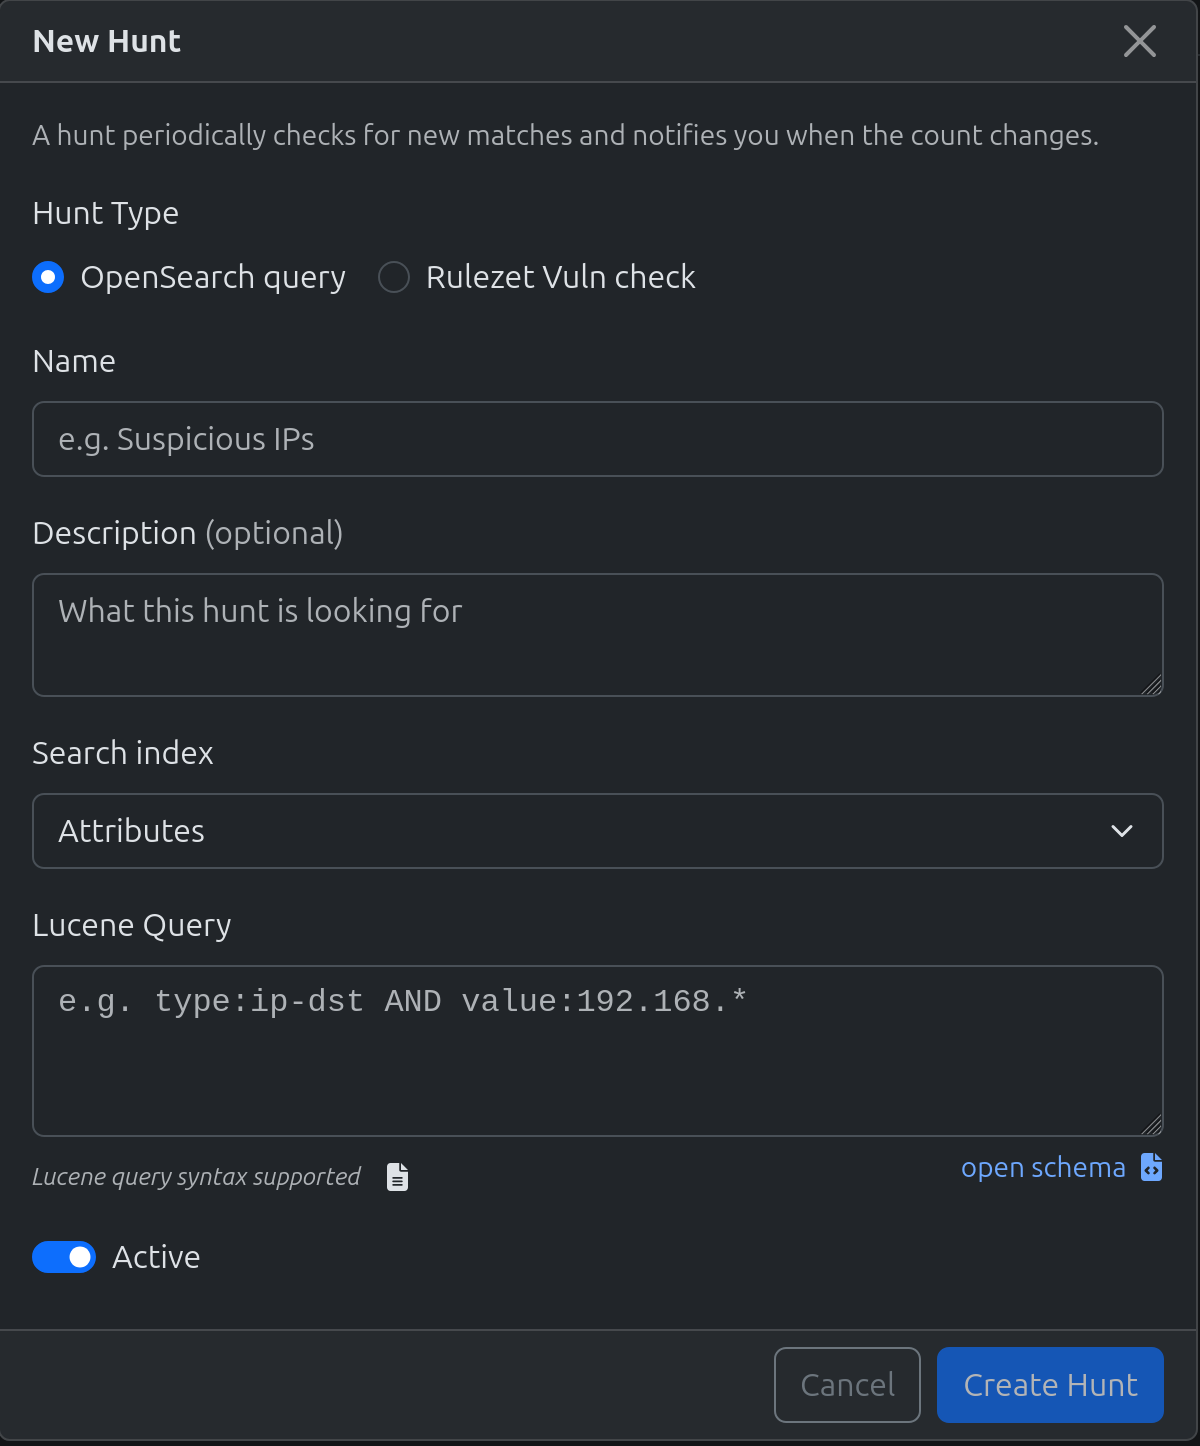
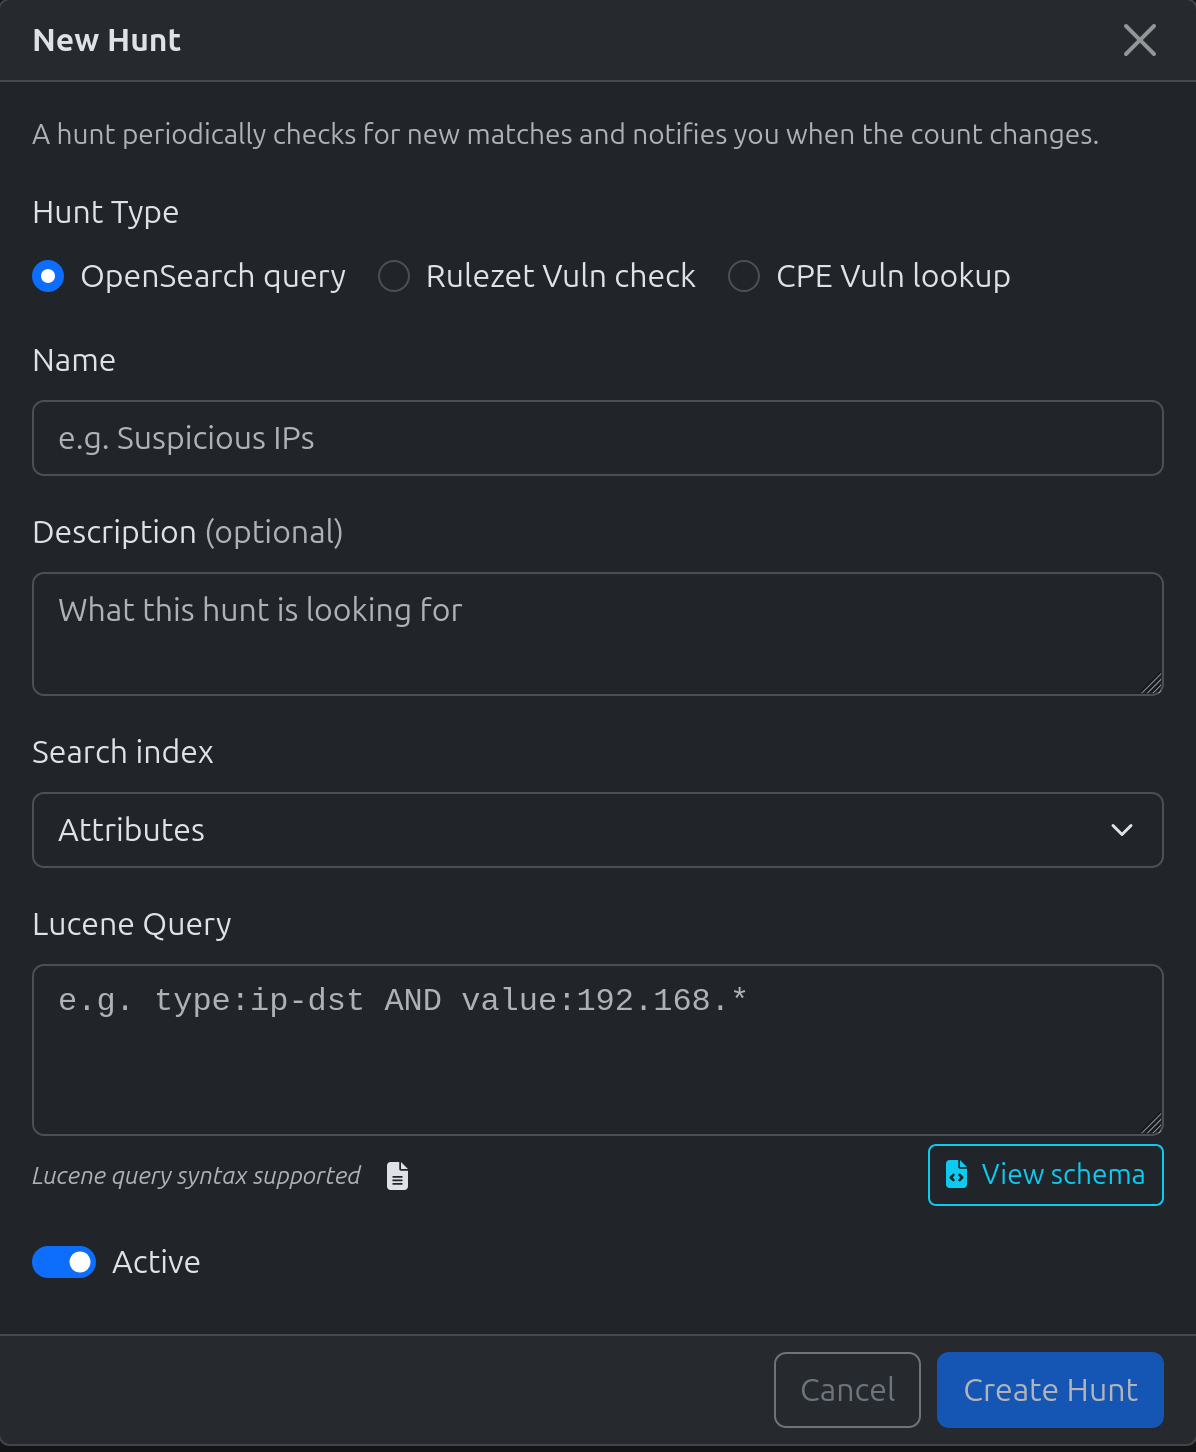
add: extend hunts docs, cpe hunt docs

diff --git a/docs/features/hunts.md b/docs/features/hunts.md
@@ -1,12 +1,24 @@
 # Hunts
 
-Hunts are saved searches that run against the OpenSearch index. Each hunt stores a Lucene query, an index target, and a run history so you can track how match counts evolve over time.
+Hunts are saved searches that can run against the OpenSearch index, an external vulnerability database, or a detection rule registry. Each hunt stores a query, an index target, and a run history so you can track how match counts evolve over time.
 
 ## Hunt types
 
 ### OpenSearch (`opensearch`)
 
 Executes a Lucene query against one of the three OpenSearch indices (`attributes`, `events`, or `correlations`). Returns up to 100 matching documents per run.
+
+### CPE (`cpe`)
+
+Looks up CVEs affecting a product by its [CPE 2.3](https://nvd.nist.gov/products/cpe) string using [vulnerability.circl.lu](https://vulnerability.circl.lu). The `query` field must be a valid CPE string (e.g. `cpe:2.3:a:apache:log4j:2.14.1:*:*:*:*:*:*:*`). All matching CVEs are fetched across pages — there is no cap on result count. The `index_target` field is ignored for CPE hunts.
+
+Each hit in the result contains:
+
+| Field | Description |
+|---|---|
+| `cve_id` | CVE identifier (e.g. `CVE-2021-44228`) |
+| `severity` | CVSS base severity (`CRITICAL`, `HIGH`, `MEDIUM`, `LOW`, or absent if not scored) |
+| `description` | English description of the vulnerability |
 
 ### Rulezet (`rulezet`)
 
@@ -16,9 +28,9 @@ Looks up detection rules from [rulezet.org](https://rulezet.org) by Vuln ID. The
 
 | Term | Description |
 |---|---|
-| **Query** | Lucene query (opensearch) or Vuln ID (rulezet) |
+| **Query** | Lucene query (opensearch), CPE string (cpe), or Vuln ID (rulezet) |
 | **Index target** | Which index to search: `attributes`, `events`, or `correlations` (opensearch only) |
-| **Hunt type** | `opensearch` for Lucene queries, `rulezet` for Vuln-ID-based rule lookup |
+| **Hunt type** | `opensearch`, `cpe`, or `rulezet` |
 | **Status** | `active` or `paused` — paused hunts are skipped during scheduled runs |
 | **Run history** | Each execution stores a timestamp and match count |
 
@@ -32,6 +44,10 @@ Looks up detection rules from [rulezet.org](https://rulezet.org) by Vuln ID. The
     - _Rulezet_ hunt:
     
     <img src="../../screenshots/hunts/misp-workbench-2_hunts_new-rulezet-hunt.png" style="height: 500px;">
+
+    - _CPE_ hunt:
+    
+    <img src="../../screenshots/hunts/misp-workbench-2_hunts_new-cpe-hunt.png" style="height: 500px;">
 
 2. Click the eye icon on the newly created hunt to view its details. To run the hunt immediately, click the ***Run Now*** button.
     <img src="../../screenshots/hunts/misp-workbench-3_hunts_view-opensearch-hunt.png" style="max-width: 100%; height: auto;">
@@ -58,7 +74,7 @@ Looks up detection rules from [rulezet.org](https://rulezet.org) by Vuln ID. The
 
 ## Creating a _Hunt_ using the API
 
-A hunt requires a name and a Lucene query. All other fields are optional.
+### OpenSearch hunt
 
 ```json
 POST /hunts/
@@ -71,6 +87,20 @@ POST /hunts/
   "status": "active"
 }
 ```
+
+### CPE hunt
+
+```json
+POST /hunts/
+{
+  "name": "Apache Log4j 2.14.1 CVEs",
+  "query": "cpe:2.3:a:apache:log4j:2.14.1:*:*:*:*:*:*:*",
+  "hunt_type": "cpe",
+  "status": "active"
+}
+```
+
+The `index_target` field is not required for CPE hunts.
 
 Required scopes: `hunts:create`
 
@@ -111,6 +141,16 @@ Returns a list of past run timestamps and match counts, useful for spotting spik
 
 Required scopes: `hunts:read`
 
+## Clearing history and results
+
+```
+DELETE /hunts/{hunt_id}/history
+```
+
+Deletes all run history entries and the cached result set for the hunt. The hunt itself is not deleted and can be run again. Useful for resetting a hunt after changing its query.
+
+Required scopes: `hunts:delete`
+
 ## API reference
 
 | Method | Path | Description | Scopes |
@@ -123,6 +163,7 @@ Required scopes: `hunts:read`
 | `POST` | `/hunts/{id}/run` | Run a hunt and cache results | `hunts:run` |
 | `GET` | `/hunts/{id}/results` | Get cached results | `hunts:read` |
 | `GET` | `/hunts/{id}/history` | Get run history | `hunts:read` |
+| `DELETE` | `/hunts/{id}/history` | Clear run history and cached results | `hunts:delete` |
 
 ## Index targets (opensearch hunts only)
 
@@ -149,6 +190,27 @@ Searches the `correlations` index to find attribute values that appear across mu
 ```
 value:evil.example.com
 ```
+
+## CPE hunt results
+
+When a CPE hunt runs, each hit represents a CVE affecting the specified product. All CVEs are returned — unlike OpenSearch hunts there is no 100-document cap.
+
+```json
+{
+  "hunt": { "id": 7, "name": "Apache Log4j 2.14.1 CVEs", ... },
+  "total": 12,
+  "hits": [
+    {
+      "cve_id": "CVE-2021-44228",
+      "severity": "CRITICAL",
+      "description": "Apache Log4j2 2.0-beta9 through 2.15.0 ..."
+    },
+    ...
+  ]
+}
+```
+
+CVE IDs in the UI link directly to the corresponding record on [vulnerability.circl.lu](https://vulnerability.circl.lu).
 
 ## Rulezet hunt results
 
